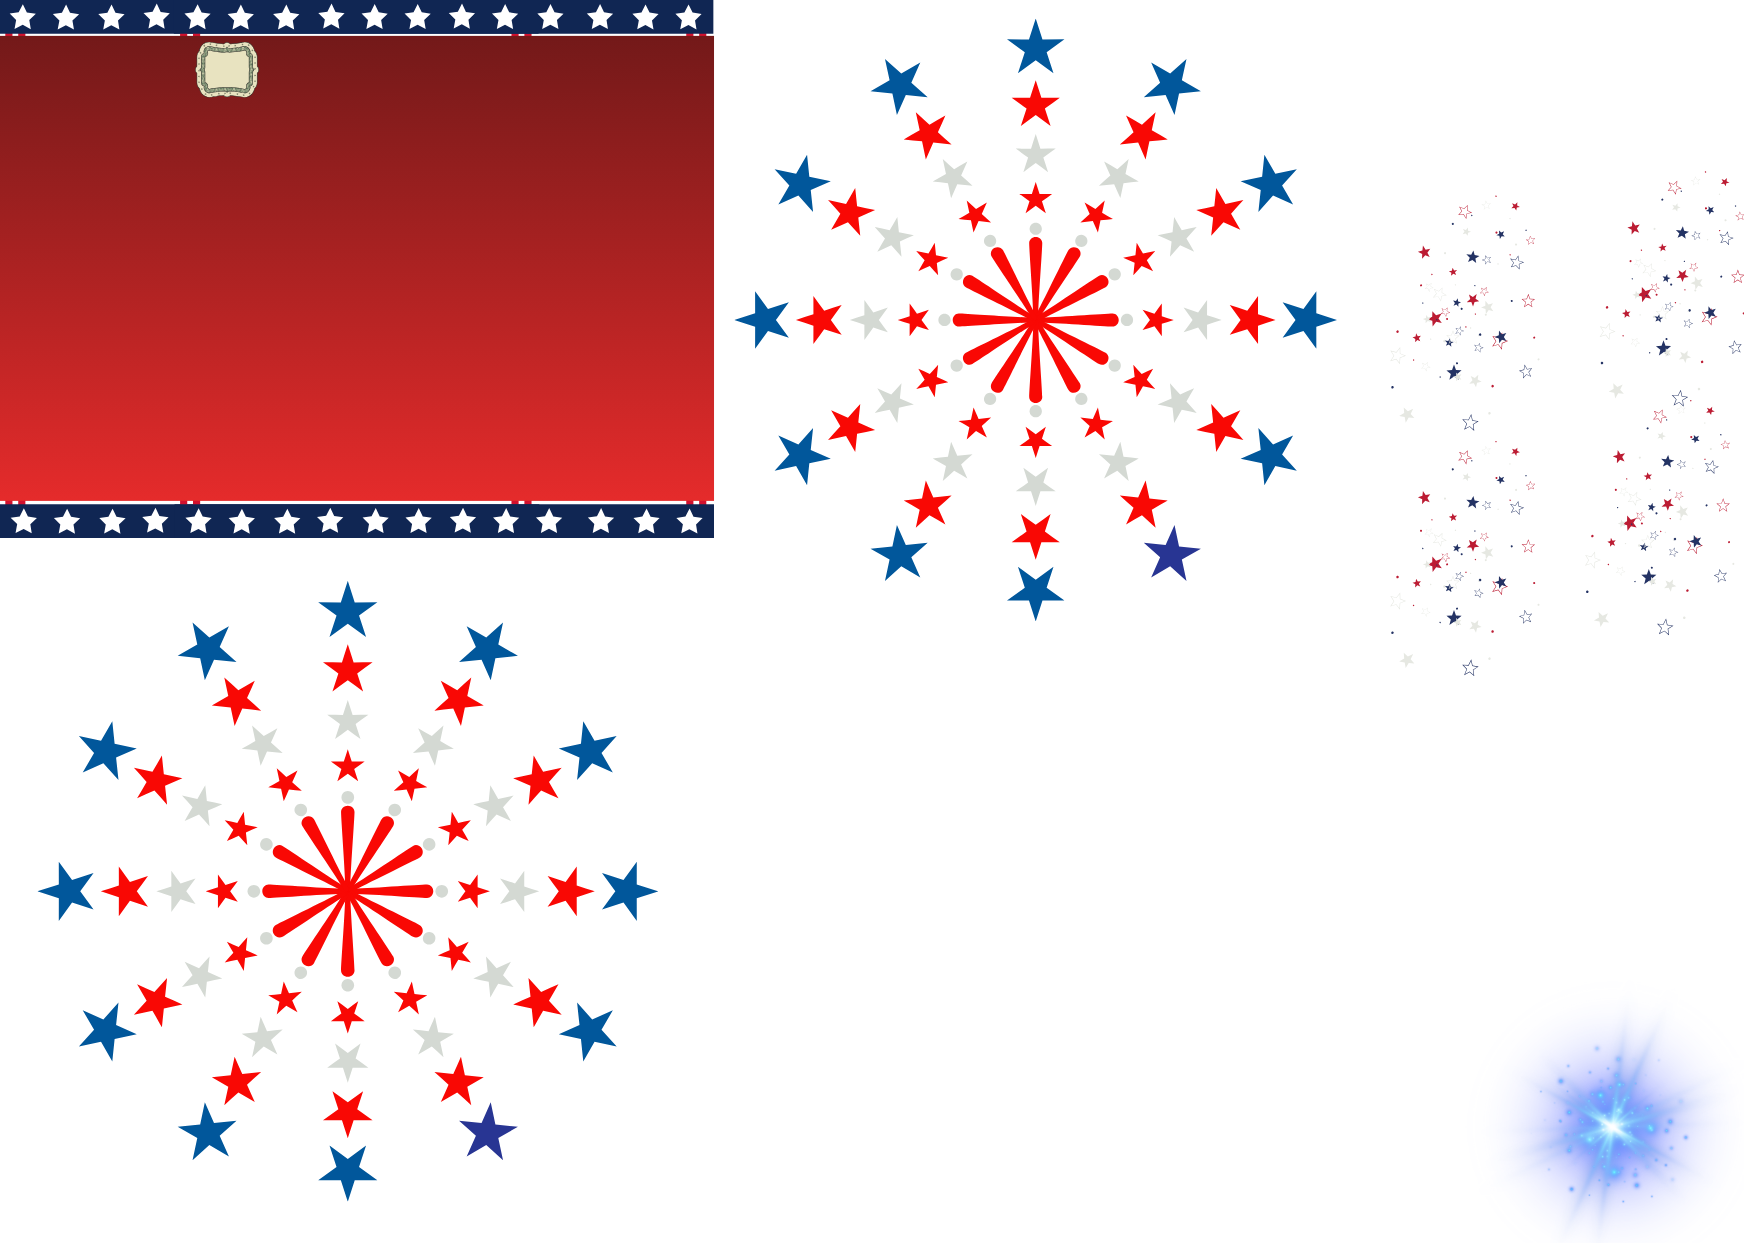
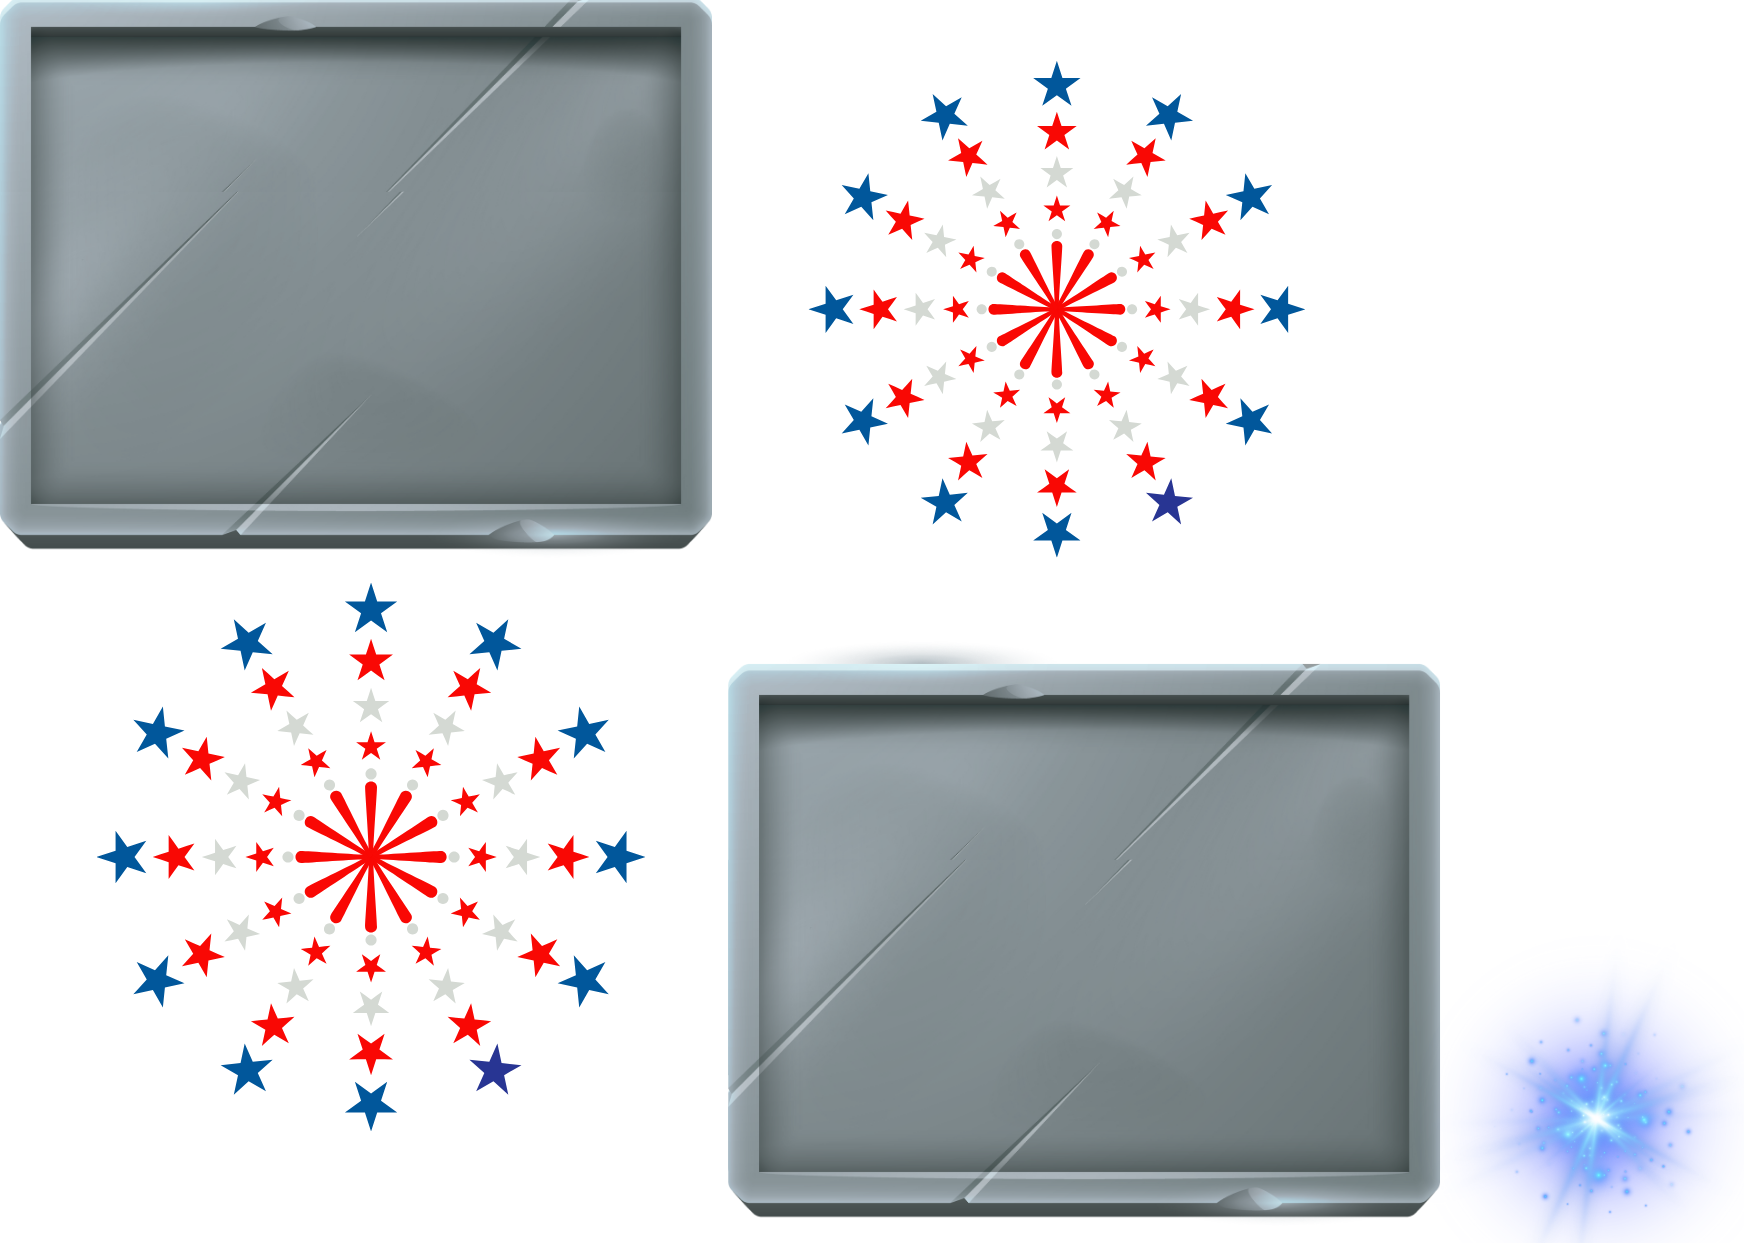
fx

diff --git a/packages/components-ui-html/src/components/ModalPayTable.svelte b/packages/components-ui-html/src/components/ModalPayTable.svelte
@@ -60,14 +60,14 @@
 		position: fixed;
 		top: 0;
 		left: 0;
-		background: rgba(0, 0, 0, 0.5);
+		background: rgba(0, 0, 0, 0.6);
 		z-index: 9;
 	}
 
 	.paytable-modal-inner {
 		background: #050505;
 		border-radius: 18px;
-		box-shadow: 0 4px 32px 0 rgba(0, 0, 0, 0.18);
+		box-shadow: 0 4px 32px #228B22;
 		max-width: 700px;
 		width: 95vw;
 		max-height: 90vh;
@@ -91,7 +91,7 @@
 		background: none;
 		border: none;
 		font-size: 2.5rem;
-		color: #888;
+		color:#228B22;
 		cursor: pointer;
 		z-index: 2;
 		transition: color 0.2s;
@@ -116,12 +116,12 @@
 		width: 190px;
 		height: 190px;
 		border-radius: 10px;
-		box-shadow: 0 1px 6px 0 rgba(0, 0, 0, 0.07);
+		box-shadow: 0 3px 6px 0 #228B22;
 		background: #020202;
 		margin-bottom: 12px;
 	}
 	.paytable-desc {
-		color: #f1f1f1;
+		color: #228B22;
 		font-size: 2rem;
 		font-weight: 500;
 		text-align: center;

diff --git a/packages/components-ui-html/src/components/ModalGameRules.svelte b/packages/components-ui-html/src/components/ModalGameRules.svelte
@@ -23,7 +23,8 @@
 
 <style>
 	:global(h2, h3, p, li) {
-		font-family: 'DollarBill',;
+		font-family: 'TradeWinds-Regular', sans-serif;
+		color: #228B22;
 	}
 	h2 {
 		font-size: 1.5rem;
